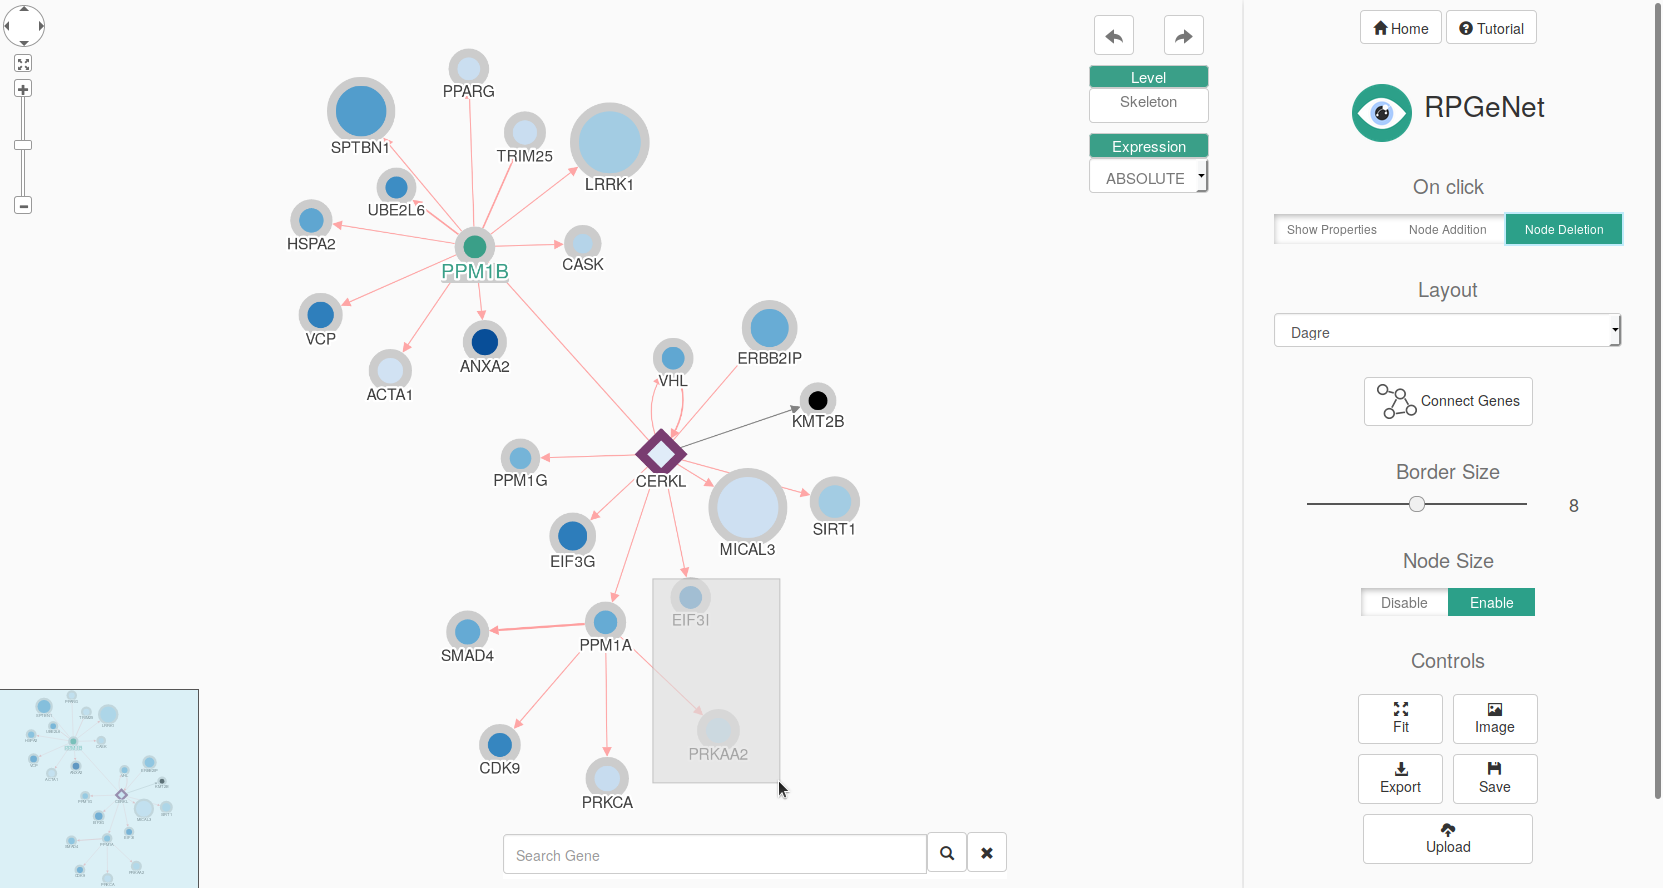
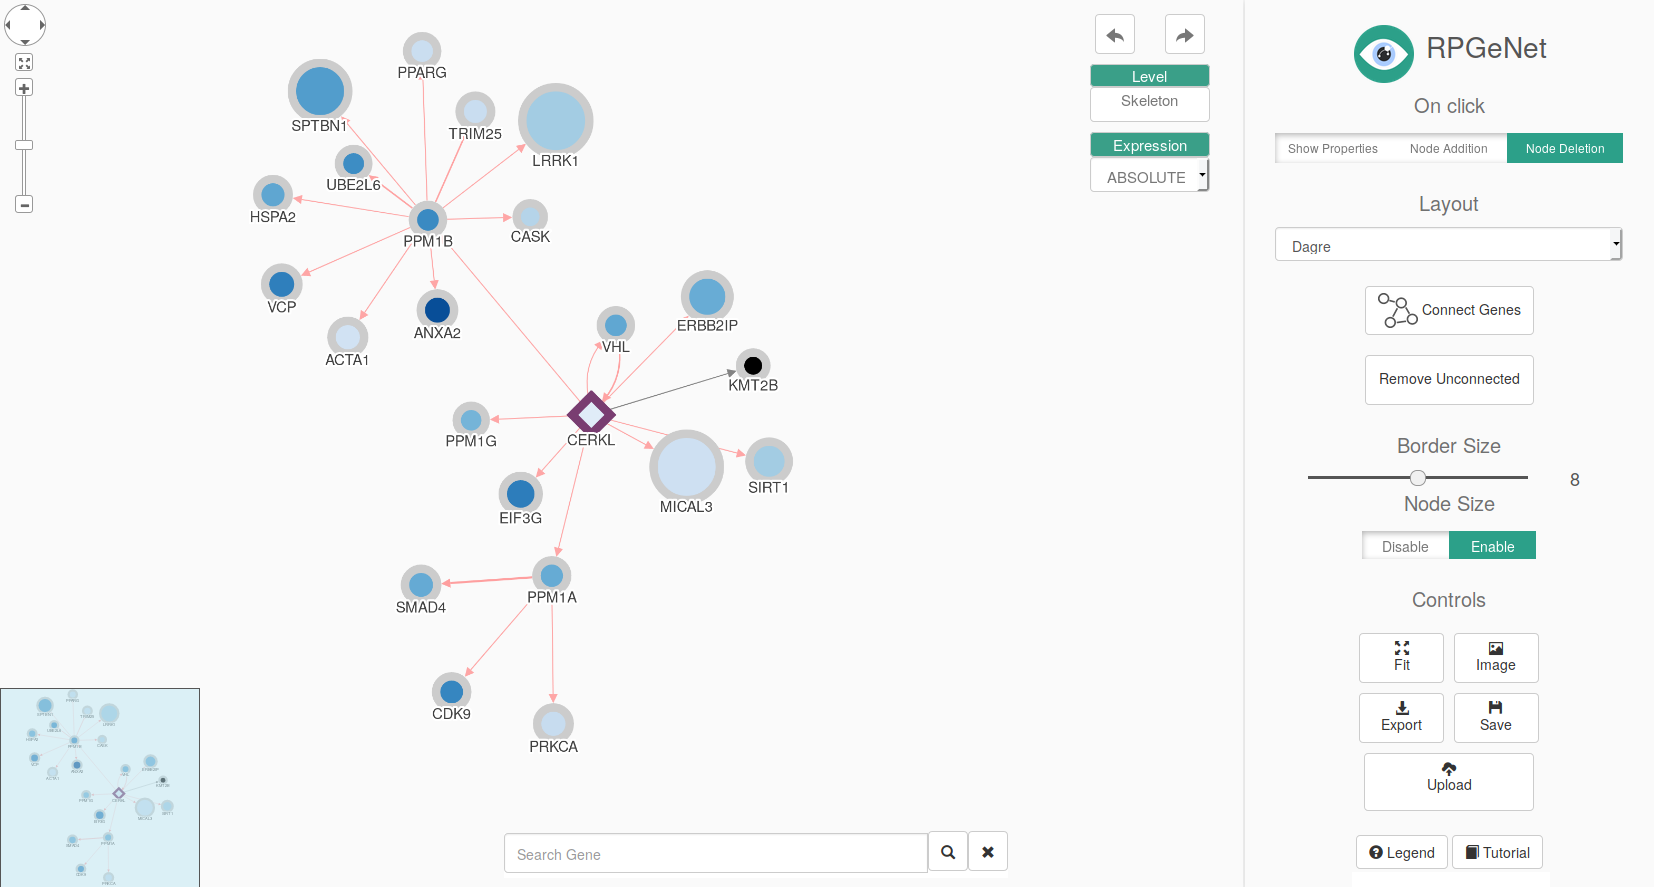
tutorial updated, fix unhidden x button

diff --git a/rpform/templates/rpform/tutorial.html b/rpform/templates/rpform/tutorial.html
@@ -122,8 +122,8 @@
   <br><br>
   <h4 id="controls">Navigation Options</h4>
   <div class="center-text">
-    <a href="{% static 'Images/navoptions.png' %}" target="_blank">
-      <img class="tutorial-img" src="{% static 'Images/command_tutorial.png' %}">
+    <a href="{% static 'Images/guided_tutorial/navoptions2.png' %}" target="_blank">
+      <img class="tutorial-img" src="{% static 'Images/guided_tutorial/navoptions2.png' %}">
     </a>
   </div>
    In Network Explorer you have several options and controls to modify the graph visualization.
@@ -145,6 +145,10 @@
      <li id="options-connect"><b>Connect Genes:</b></li>
      <p>
         This button will add all the interactions in the current level between all the genes displayed on the visualization.
+      </p>
+     <li id="options-unconnect"><b>Remove Unconnected Genes:</b></li>
+     <p>
+        This button will remove all the nodes that are currently not connected in the graph display.
       </p>
      <li id="options-border"><b>Border size:</b></li>
      <p>
@@ -346,8 +350,8 @@
       We will chose the absolute expression option and then click on explore network.
     </p>
     <div class="center-text">
-      <a href="{% static 'Images/guided_tutorial/retabsdisplay.png' %}" target="_blank">
-        <img class="tutorial-img-large" src="{% static 'Images/guided_tutorial/retabsdisplay.png' %}">
+      <a href="{% static 'Images/guided_tutorial/retabsdisplay2.png' %}" target="_blank">
+        <img class="tutorial-img-large" src="{% static 'Images/guided_tutorial/retabsdisplay2.png' %}">
       </a>
     </div>
     <p>
@@ -361,8 +365,8 @@
       Lets take a look at the control panel to the right hand side of the screen.
     </p>
     <div class="center-text">
-      <a href="{% static 'Images/guided_tutorial/command.png' %}" target="_blank">
-        <img class="rpgenet_legend" src="{% static 'Images/guided_tutorial/command.png' %}">
+      <a href="{% static 'Images/guided_tutorial/command2.png' %}" target="_blank">
+        <img class="rpgenet_legend" src="{% static 'Images/guided_tutorial/command2.png' %}">
       </a>
     </div>
     <p>
@@ -398,8 +402,8 @@
       PPM1A and PPM1B.
     </p>
     <div class="center-text">
-      <a href="{% static 'Images/guided_tutorial/node-addition-results.png' %}" target="_blank">
-        <img class="tutorial-img-large" src="{% static 'Images/guided_tutorial/node-addition-results.png' %}">
+      <a href="{% static 'Images/guided_tutorial/node-addition-result2.png' %}" target="_blank">
+        <img class="tutorial-img-large" src="{% static 'Images/guided_tutorial/node-addition-result2.png' %}">
       </a>
     </div>
     <p>
@@ -431,10 +435,22 @@
       you gene of interest interact with each other.
     </p>
     <div class="center-text">
-      <a href="{% static 'Images/guided_tutorial/connect-genes-result.png' %}" target="_blank">
-        <img class="tutorial-img-large" src="{% static 'Images/guided_tutorial/connect-genes-result.png' %}">
+      <a href="{% static 'Images/guided_tutorial/connect-genes-result2.png' %}" target="_blank">
+        <img class="tutorial-img-large" src="{% static 'Images/guided_tutorial/connect-genes-result2.png' %}">
       </a>
     </div>
+    <p>
+      When you delete nodes, you may end up with many unconnected nodes in the
+      graph display. We can use the Remove Unconnected button to remove any unconnected
+      nodes. Restarting with the original CERKL input on the netexplorer, we are
+      going to click on "Node Addition" and click on the gene SIRT1. We will then
+      click on "Node Deletion" and delete SIRT1. All of nodes connecting to SIRT1
+      will be unconnected. Now click "Remove Unconnected" and all the unconnected
+      nodes should be deleted from the graph display.
+    </p>
+    <a href="{% static 'Images/guided_tutorial/REMOVE_UNCONNECTED_ANIMATION.gif' %}" target="_blank">
+        <img class="tutorial-gif-large" src="{% static 'Images/guided_tutorial/REMOVE_UNCONNECTED_ANIMATION.gif' %}">
+      </a>
     <p>
       As you can see, each node has a border that tells us the lowest level the
       gene is found. The size of the border can be modified using "Border Size".
@@ -520,8 +536,8 @@
       click on "Show Legend" for the color scale.
     </p>
     <div class="center-text">
-      <a href="{% static 'Images/guided_tutorial/retalldisplay.png' %}" target="_blank">
-        <img class="tutorial-img-large" src="{% static 'Images/guided_tutorial/retalldisplay.png' %}">
+      <a href="{% static 'Images/guided_tutorial/retalldisplay2.png' %}" target="_blank">
+        <img class="tutorial-img-large" src="{% static 'Images/guided_tutorial/retalldisplay2.png' %}">
       </a>
     </div>
 
@@ -570,8 +586,8 @@
       use all the tools we used in the Network Explorer tutorial (above).
     </p>
     <div class="center-text">
-      <a href="{% static 'Images/guided_tutorial/getexplr-rax.png' %}" target="_blank">
-        <img class="tutorial-img-large" src="{% static 'Images/guided_tutorial/getexplr-rax.png' %}">
+      <a href="{% static 'Images/guided_tutorial/getexplr-rax2.png' %}" target="_blank">
+        <img class="tutorial-img-large" src="{% static 'Images/guided_tutorial/getexplr-rax2.png' %}">
       </a>
     </div>
     <h4 id="shortest-guided">Shortest Path Between Genes</h4>
@@ -598,8 +614,8 @@
       the pathway that interest us to Network Explorer by clicking "Exlore Network".
     </p>
     <div class="center-text">
-      <a href="{% static 'Images/guided_tutorial/netexplr-cerkl-rho.png' %}" target="_blank">
-        <img class="tutorial-img-large" src="{% static 'Images/guided_tutorial/netexplr-cerkl-rho.png' %}">
+      <a href="{% static 'Images/guided_tutorial/netexplr-cerkl-rho2.png' %}" target="_blank">
+        <img class="tutorial-img-large" src="{% static 'Images/guided_tutorial/netexplr-cerkl-rho2.png' %}">
       </a>
     </div>
     <p></p>

diff --git a/rpform/templates/rpform/index.html b/rpform/templates/rpform/index.html
@@ -68,7 +68,7 @@
 				This just means that starting from your query gene(s) you can just "travel" to another node with a distance equal to the value that you specified.
 			</p>
 			<p>
-				For example, when searching for <i>CEP290</i> and the "neighbours" is set to 1 (this is the default value), this set of genes can be obtained: <i>OFD1</i>, <i>RPGR</i>, <i>ANAPC2</i>, <i>ATF4</i>, <i>IQCB1</i>. This means that from <i>CEP290</i> one can only travel to nodes (say here genes) at distance 1. If "neighbours" is set to 2,further genes are retrieved apart from the previous ones, and now one can travel a distance of 2 to other genes.
+				For example, when searching for <i>CEP290</i> and the "neighbours" is set to 1 (this is the default value), this set of genes can be obtained: <i>OFD1</i>, <i>RPGR</i>, <i>ANAPC2</i>, <i>ATF4</i>, <i>IQCB1</i>. This means that from <i>CEP290</i> one can only travel to nodes (say here genes) at distance 1. If "neighbours" is set to 2, further genes are retrieved apart from the previous ones, and now one can travel a distance of 2 to other genes.
 				<br><br>
 				See also tutorial <a href="{% url tutorial %}" target="_blank">page</a>.
 			</p>
@@ -137,9 +137,8 @@
 			<p>
 				Here you can choose between trying to find the shortest pathway between
 				your gene of interest and driver genes or to genes in the skeleton.
-			</p>pathto-bt
-				<br /><br />
 			</p>
+			<br>
 			See also tutorial <a href="{% url tutorial %}" target="_blank">page</a>.
 	</div>
 

diff --git a/rpform/static/css/style.css b/rpform/static/css/style.css
@@ -565,6 +565,7 @@ input[type=number]::-webkit-inner-spin-button {
 	background-color: #FAFAFA;
 	box-shadow: 0px 0px 180px 120px rgba(0,0,0,0.75);
 	overflow-y: scroll;
+	color: #777777;
 }
 
 .close-card-btn {
@@ -625,6 +626,8 @@ input[type=number]::-webkit-inner-spin-button {
     box-shadow: 0px 0px 180px 120px rgba(0,0,0,0.75);
     color: #777777;
 }
+
+/* color: #777777 */
 
 .panel-form {
 	padding-top: 2px !important;
@@ -912,6 +915,14 @@ input[type=number]::-webkit-inner-spin-button {
 .tutorial-img-large {
 	max-width: 100%;
 	width: 800px;
+}
+
+.tutorial-gif-large {
+	max-width: 100%;
+	width: 800px;
+	display: block;
+  margin-left: auto;
+  margin-right: auto;
 }
 
 .tutorial-img-large-center {

diff --git a/static/css/style.css b/static/css/style.css
@@ -565,6 +565,7 @@ input[type=number]::-webkit-inner-spin-button {
 	background-color: #FAFAFA;
 	box-shadow: 0px 0px 180px 120px rgba(0,0,0,0.75);
 	overflow-y: scroll;
+	color: #777777;
 }
 
 .close-card-btn {
@@ -625,6 +626,8 @@ input[type=number]::-webkit-inner-spin-button {
     box-shadow: 0px 0px 180px 120px rgba(0,0,0,0.75);
     color: #777777;
 }
+
+/* color: #777777 */
 
 .panel-form {
 	padding-top: 2px !important;
@@ -912,6 +915,14 @@ input[type=number]::-webkit-inner-spin-button {
 .tutorial-img-large {
 	max-width: 100%;
 	width: 800px;
+}
+
+.tutorial-gif-large {
+	max-width: 100%;
+	width: 800px;
+	display: block;
+  margin-left: auto;
+  margin-right: auto;
 }
 
 .tutorial-img-large-center {

diff --git a/rpform/templates/rpform/gexplorer.html b/rpform/templates/rpform/gexplorer.html
@@ -95,7 +95,7 @@
 	<!-- Get info Card on click -->
     <!-- Gene Card -->
     <div id="button-container">
-        <div class="close-overlay" title="Close card">
+        <div class="close-overlay" style="display: none;" title="Close card">
             <span class="glyphicon glyphicon-remove" aria-hidden="true"></span>
         </div>
     </div>

diff --git a/rpform/static/js/app.js b/rpform/static/js/app.js
@@ -453,7 +453,7 @@ function getCookie(name) {
  * Removes unconnected nodes in visualization
  */
  removeUnconnected = function(cy) {
-   cy.nodes('[[degree < 1]]').remove();
+   ur.do("remove", cy.nodes('[[degree < 1]]'));
  }
 
 /*

diff --git a/static/js/app.js b/static/js/app.js
@@ -453,7 +453,7 @@ function getCookie(name) {
  * Removes unconnected nodes in visualization
  */
  removeUnconnected = function(cy) {
-   cy.nodes('[[degree < 1]]').remove();
+   ur.do("remove", cy.nodes('[[degree < 1]]'));
  }
 
 /*
